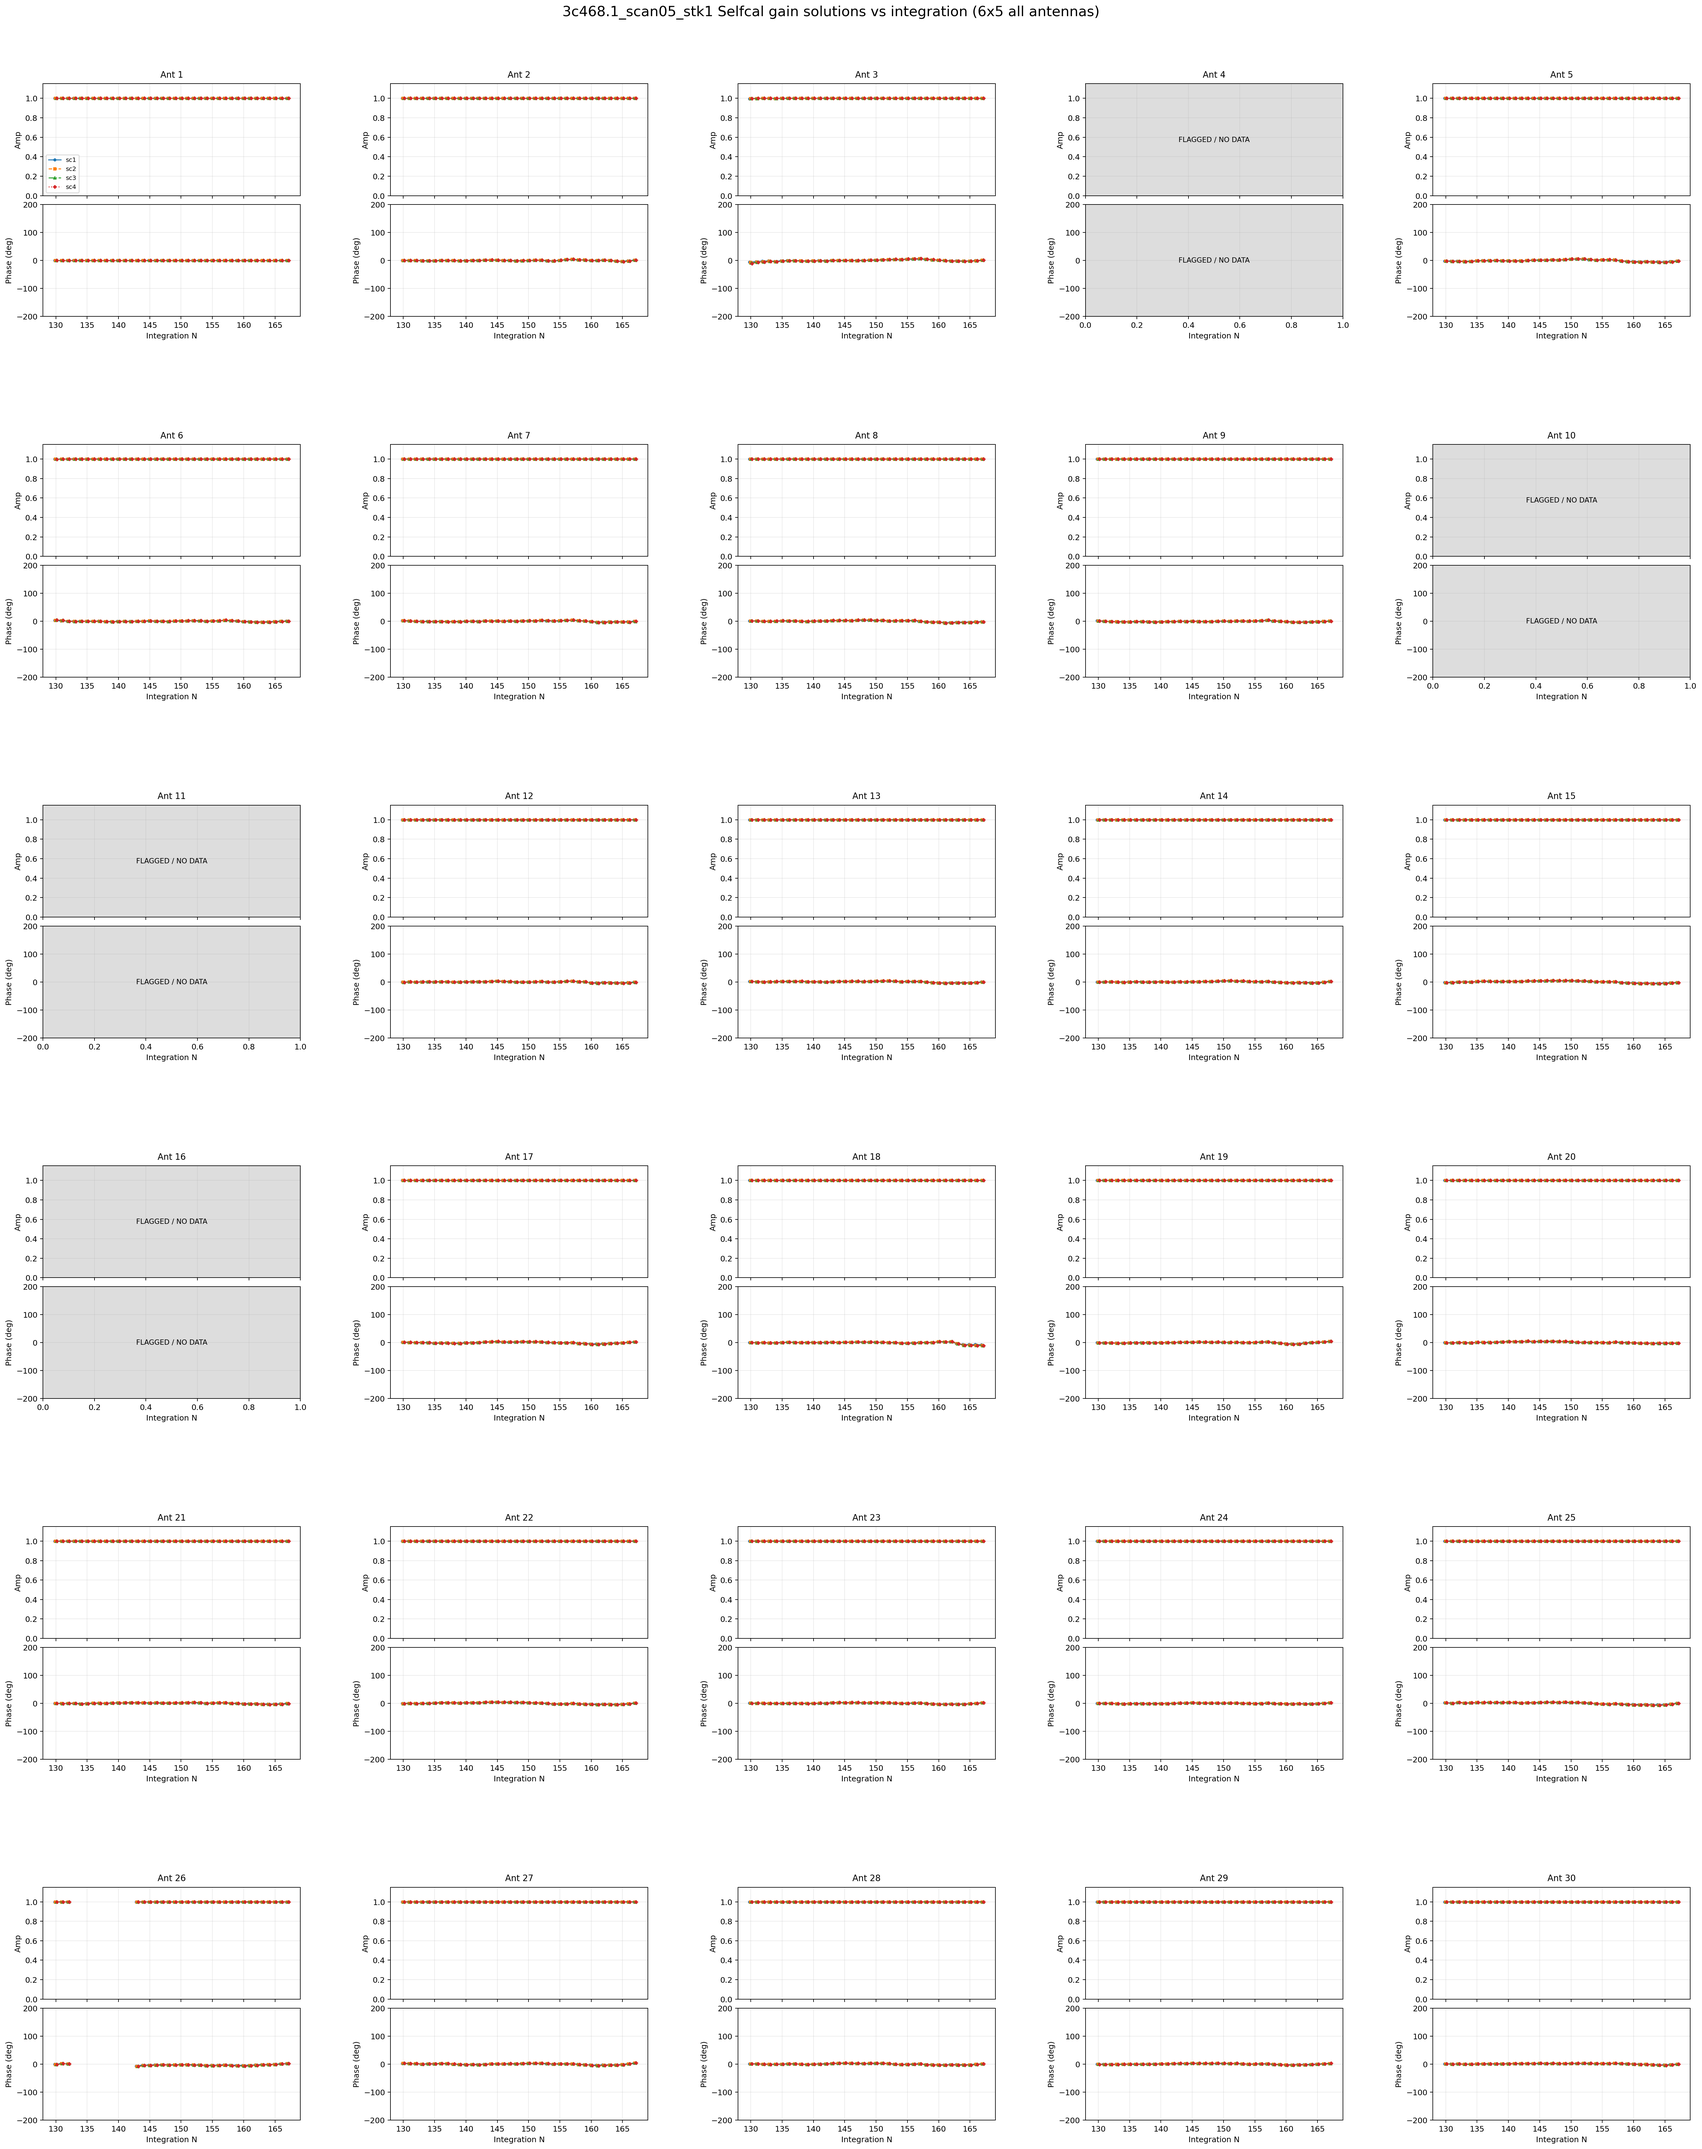
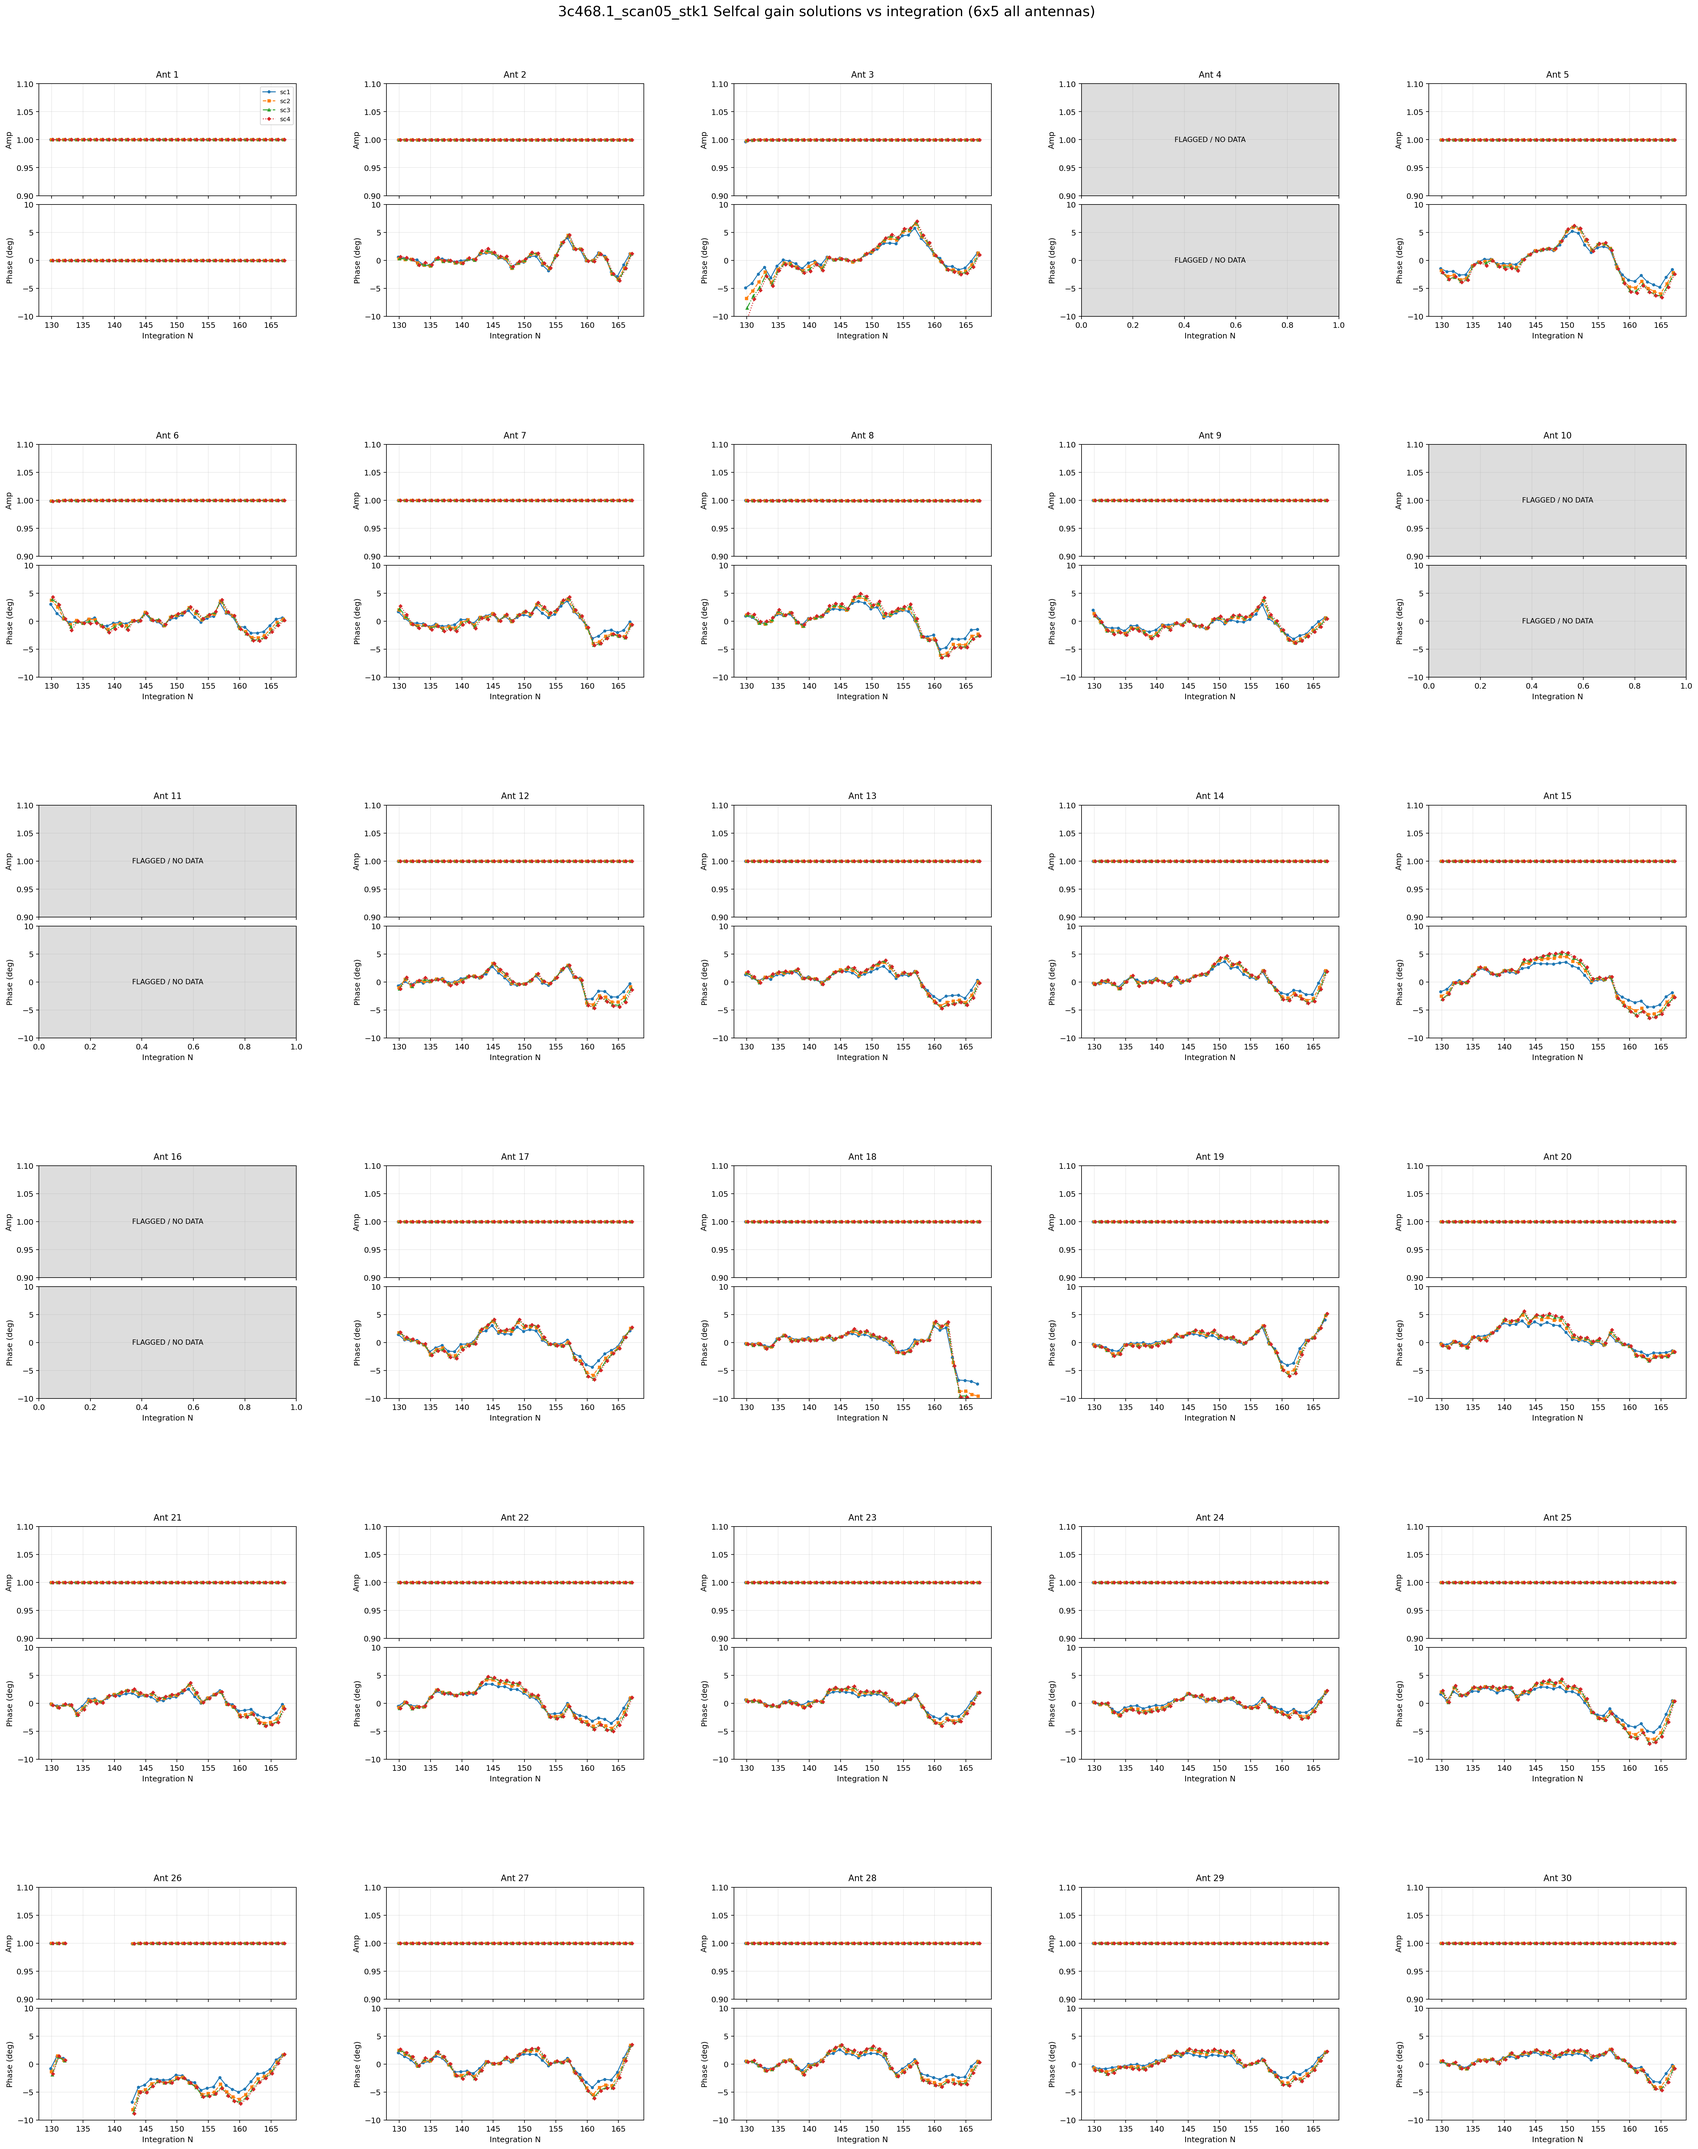
Publish GMRT 40_014 run 20260519_135646

diff --git a/40_014/latest/index.html b/40_014/latest/index.html
@@ -42,11 +42,11 @@
 </head>
 <body>
   <h1>GMRT 40_014 Calibration Diagnostics</h1>
-  <p class="tiny"><strong>Published:</strong> 2026-05-22 09:47:27 AEST</p>
+  <p class="tiny"><strong>Published:</strong> 2026-05-22 09:54:10 AEST</p>
   <div class="meta">
     <p><strong>Run timestamp:</strong> <code>20260519_135646</code></p>
 		<p><strong>Workflow run ID:</strong> <code>20260519_135646_p61377_r22611</code></p>
-    <p><strong>Published at:</strong> <code>2026-05-22 09:47:27 AEST</code></p>
+    <p><strong>Published at:</strong> <code>2026-05-22 09:54:10 AEST</code></p>
     <p><strong>Source branch:</strong> <code>40_014</code></p>
     <p><strong>Source commit:</strong> <code>c9798f50833f464fc418da3a0dd13434480352d9</code></p>
     <p><strong>Published folder:</strong> <code>40_014/latest</code></p>
@@ -681,6 +681,16 @@
 		<h2>Post-selfcal imaging summary: static targets</h2>
 		<p>Per-scan post-selfcal products for static calibrator/target sources, rendered from the layout manifest in the same panel order as the Moon sections.</p>
     <div class="moon-section">
+      <h3>All scans MS FLAG overview</h3>
+      <div class="panel-grid">
+        <div class="panel-card">
+          <p><strong>All scans baseline heatmap (_full.ms)</strong></p>
+          <a href="casa_selfcal/3c468.1_scan05_stk1/scan05_flag_baseline_grid_full_ms.png" target="_blank" rel="noopener"><img src="casa_selfcal/3c468.1_scan05_stk1/scan05_flag_baseline_grid_full_ms.png" alt="all scans baseline flag heatmap" loading="lazy"></a>
+          <p><a href="casa_selfcal/3c468.1_scan05_stk1/scan05_flag_baseline_grid_full_ms.png" target="_blank" rel="noopener">Open full-observation heatmap</a></p>
+        </div>
+      </div>
+    </div>
+    <div class="moon-section">
       <h3>Post-selfcal imaging summary: 3c468.1</h3>
       <p class="tiny">Source 3c468.1 · scan05 · imaged per integration (stack size = 1) · static target tracked at phase-tracking centre (unlike moving-target Moon)</p>
       <div class="panel-grid">
@@ -713,13 +723,12 @@
         <div class="panel-card">
           <p><strong>MS FLAG diagnostics</strong></p>
           <p class="tiny">Representative baseline heatmap</p>
-          <a href="casa_selfcal/3c468.1_scan05_stk1/scan05_flag_baseline_grid_all_integrations.png"><img src="casa_selfcal/3c468.1_scan05_stk1/scan05_flag_baseline_grid_all_integrations.png" alt="Post-selfcal imaging summary: 3c468.1 baseline flag heatmap" loading="lazy"></a>
-          <p class="tiny">Total flagged fraction vs integration</p>
-          <a href="casa_selfcal/3c468.1_scan05_stk1/scan05_flag_total_vs_integration.png"><img src="casa_selfcal/3c468.1_scan05_stk1/scan05_flag_total_vs_integration.png" alt="Post-selfcal imaging summary: 3c468.1 flag total vs integration" loading="lazy"></a>
-          <p class="tiny">Per-antenna flag diagnostics (6×5 panel)</p>
-          <a href="casa_selfcal/3c468.1_scan05_stk1/scan05_flag_antenna_panel_6x5.png"><img src="casa_selfcal/3c468.1_scan05_stk1/scan05_flag_antenna_panel_6x5.png" alt="Post-selfcal imaging summary: 3c468.1 per-antenna flag panel" loading="lazy"></a>
-          <p class="tiny">All scans baseline heatmap (_full.ms)</p>
-          <a href="casa_selfcal/3c468.1_scan05_stk1/scan05_flag_baseline_grid_full_ms.png"><img src="casa_selfcal/3c468.1_scan05_stk1/scan05_flag_baseline_grid_full_ms.png" alt="Post-selfcal imaging summary: 3c468.1 full observation baseline flag heatmap" loading="lazy"></a>
+          <a href="casa_selfcal/3c468.1_scan05_stk1/scan05_flag_baseline_grid_all_integrations.png" target="_blank" rel="noopener"><img src="casa_selfcal/3c468.1_scan05_stk1/scan05_flag_baseline_grid_all_integrations.png" alt="Post-selfcal imaging summary: 3c468.1 baseline flag heatmap" loading="lazy"></a>
+          <p>
+            <a href="casa_selfcal/3c468.1_scan05_stk1/scan05_flag_total_vs_integration.png" target="_blank" rel="noopener">Total flagged fraction vs integration</a>
+            ·
+            <a href="casa_selfcal/3c468.1_scan05_stk1/scan05_flag_antenna_panel_6x5.png" target="_blank" rel="noopener">Per-antenna flag diagnostics (6×5 panel)</a>
+          </p>
         </div>
     </div>
   </div>
